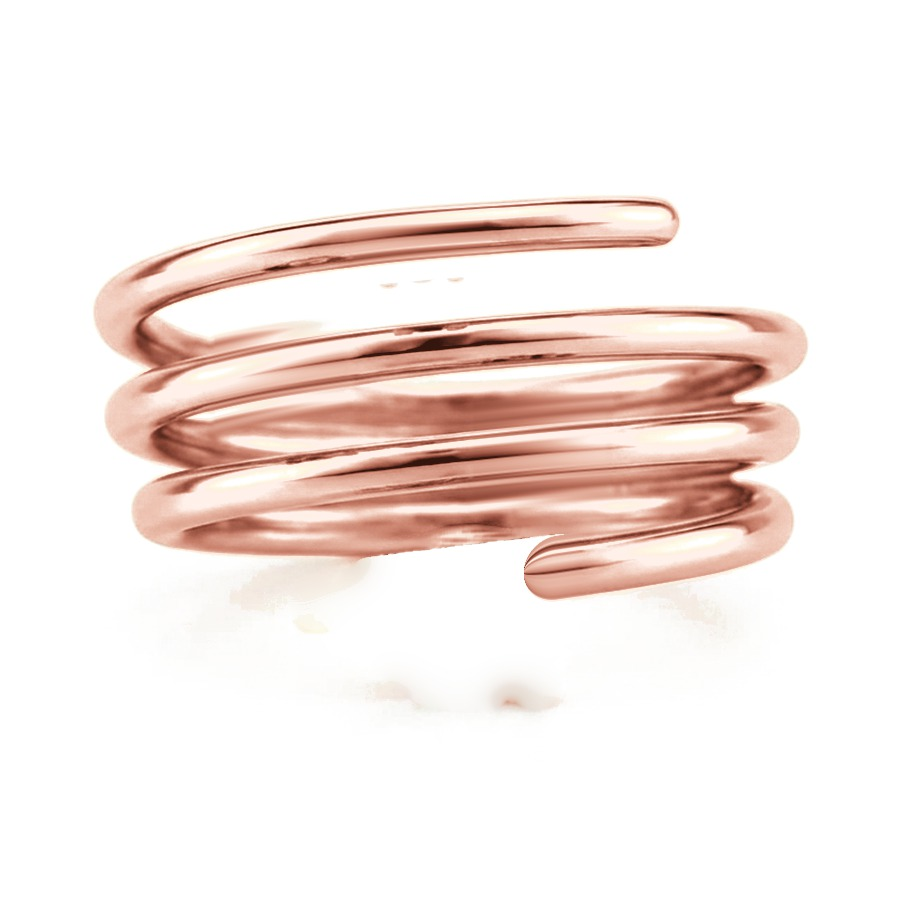
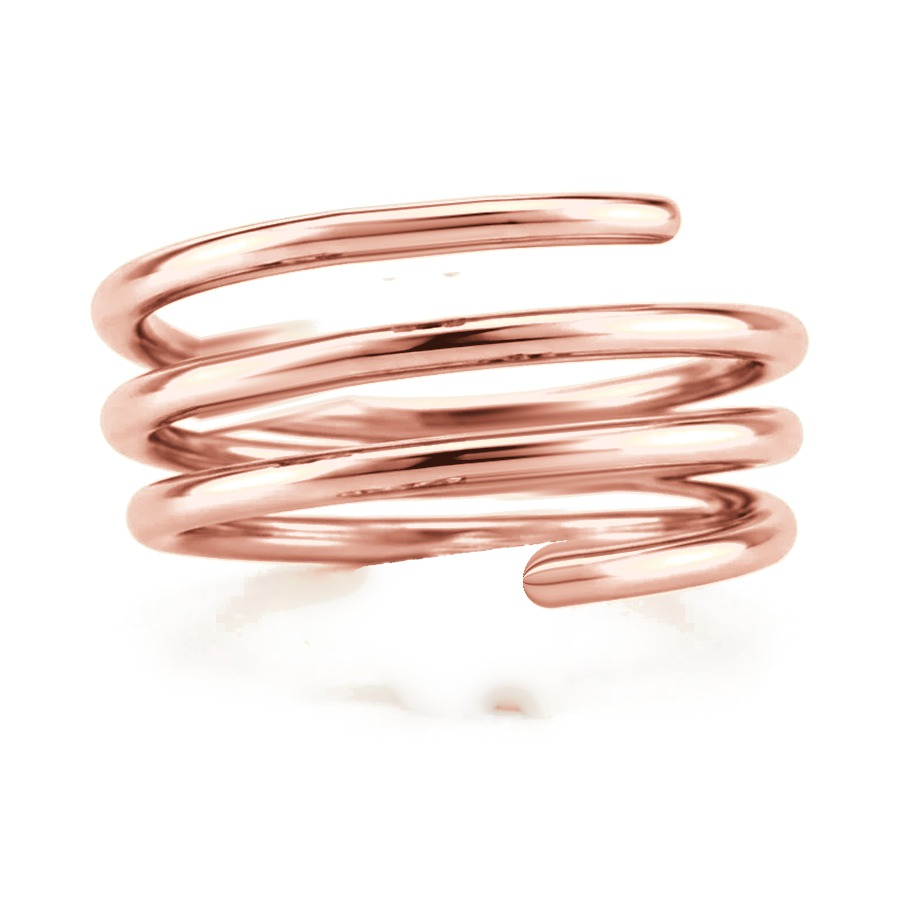
Ring photos: the five photos supplied on 20 Nov
Close wraps with a slimmer wire, one photo per wrap count, in gold, rose and
silver. The small stones and the pear are lifted off with the same simple
fill the original set used, and every placement is re-measured per photo.

diff --git a/index.html b/index.html
@@ -322,11 +322,11 @@ const MAX_WRAPS = 5;
    as that pear did); seat = [the pear's right edge, the wire's centre there]; top = the pear's top edge;
    drop = how far below the wire the pear's centre hung, as a share of its height. */
 const RINGS = {
-  1:{size:49.5, bottom:1.63, seat:[594,498], top:440, drop:0.2, stones:[[443,320,554,310]]},
-  2:{size:43.1, bottom:1.6, seat:[586,543], top:497, drop:0.23, stones:[[426,263,523,254],[285,405,382,393]]},
-  3:{size:39.5, bottom:1.56, seat:[568,566], top:529, drop:0.29, stones:[[418,230,507,220],[279,369,368,352],[539,451,450,459]]},
-  4:{size:42.5, bottom:1.59, seat:[570,649], top:585, drop:0.14, stones:[[417,256,513,251],[262,371,358,381],[536,450,440,455],[326,555,422,548]]},
-  5:{size:45.0, bottom:1.46, seat:[558,662], top:589, drop:0.09, stones:[[430,175,531,173],[262,289,363,278],[539,374,438,378],[328,479,429,468],[644,557,543,559]]},
+  1:{size:54.5, bottom:1.56, seat:[589,509], top:454, drop:0.19, stones:[[446,327,569,314]]},
+  2:{size:39.9, bottom:1.5, seat:[572,602], top:548, drop:0.2, stones:[[436,304,526,298],[278,444,368,430]]},
+  3:{size:40.5, bottom:1.56, seat:[567,574], top:535, drop:0.28, stones:[[418,226,509,218],[274,368,365,350],[541,454,450,462]]},
+  4:{size:42.8, bottom:1.52, seat:[566,619], top:554, drop:0.12, stones:[[416,219,512,212],[261,334,357,320],[537,415,441,420],[325,521,421,512]]},
+  5:{size:45.2, bottom:1.49, seat:[560,670], top:597, drop:0.1, stones:[[431,164,533,162],[262,282,364,267],[542,367,440,371],[328,475,430,464],[649,556,547,560]]},
 };
 /* In a store, the store's page hands over SHOP: its image addresses, its cart, and the price of each ring.
    On its own (no SHOP) the page shows no prices and sends a request by email. */
@@ -337,7 +337,7 @@ const PHOTO = 900, STONE_BOX = 3;      // a stone image is 3x its stone's radius
 
 const stoneSrc  = (i, metal) => asset('img/stones/' + METALS[metal].dir + '/' + STONE_BANK[i].file);
 const seatSrc   = metal => asset('img/stones/' + METALS[metal].dir + '/seat.png');
-const ringSrc   = (n, metal) => asset('img/rings/' + METALS[metal].dir + '/ring-' + n + '.jpg?v=3');   // v=3: the in-between photos (original, a touch slimmer); bump when the photos change so no one sees old photos under new placements
+const ringSrc   = (n, metal) => asset('img/rings/' + METALS[metal].dir + '/ring-' + n + '.jpg?v=4');   // v=4: the five photos supplied on 20 Nov (close wraps, slimmer wire); bump when the photos change so no one sees old photos under new placements
 const bottomSrc = (cut, size, metal) => asset('img/bottom/' + METALS[metal].dir + '/' + cut + '-' + size + '.png');
 
 /* ============================ STATE ============================

diff --git a/tools/lift_round_stones.py b/tools/lift_round_stones.py
@@ -24,7 +24,8 @@ def erase_round(a,cx,cy,r):
     xL=int(round(cx-1.8*r)); xR=int(round(cx+1.8*r))
     half=int(1.5*r)
     colL=a[:,xL-2:xL+1].mean(1); colR=a[:,xR:xR+3].mean(1)
-    # the wire's slope just left and just right of the setting (same wire, 28px apart)
+    # the wire's rise across the stone: the vertical shift that best lines up the two edge profiles
+    # the wire's slope just left and just right of the setting (same wire, 28px apart), carried across the gap
     def local_shift(x0,x1):
         A=a[:,x0-1:x0+2].mean(1); B=a[:,x1-1:x1+2].mean(1); u0=int(cy-1.0*r); u1=int(cy+1.0*r); best=None
         for dd in range(-12,13):
@@ -32,23 +33,16 @@ def erase_round(a,cx,cy,r):
             if best is None or e<best[0]: best=(e,dd)
         return best[1]/float(x1-x0)
     sl=local_shift(xL-28,xL); sr=local_shift(xR,xR+28)
-    d=(sl+sr)/2.0*(xR-xL)
-    # refine the rise across the gap by matching the two edge profiles directly, near the slope's guess
-    u0=int(cy-1.3*r); u1=int(cy+1.3*r); best=None
-    for dd in range(int(round(d))-9,int(round(d))+10):
-        e=np.abs(colL[u0:u1]-colR[u0+dd:u1+dd]).mean()+0.15*abs(dd-d)
-        if best is None or e<best[0]: best=(e,dd)
-    d=float(best[1]); cL=cy-d/2.0; cR=cy+d/2.0
-    m0=sl*(xR-xL); m1=sr*(xR-xL)
+    d=(sl+sr)/2.0*(xR-xL); cL=cy-d/2.0; cR=cy+d/2.0
     out=a.copy(); ys=np.arange(H)
     for x in range(xL,xR+1):
         t=(x-xL)/(xR-xL); ts=t*t*(3-2*t)
-        c=cL+(t**3-2*t*t+t)*m0+(-2*t**3+3*t*t)*d+(t**3-t*t)*m1     # the wire's path: leaves and arrives at the wire's own slope
+        c=cL+(cR-cL)*t
         def samp(col,c0):
             yy=np.clip(ys-(c-c0),0,H-1); lo=np.floor(yy).astype(int); hi=np.minimum(lo+1,H-1); f=(yy-lo)[:,None]
             return col[lo]*(1-f)+col[hi]*f
         new=samp(colL,cL)*(1-ts)+samp(colR,cR)*ts
-        w=(np.clip((half-np.abs(ys-c))/8.0,0,1)*min(1.0,(x-xL+1)/8.0,(xR-x+1)/8.0))[:,None]
+        w=np.clip((half-np.abs(ys-c))/8.0,0,1)[:,None]
         out[:,x]=a[:,x]*(1-w)+new*w
     return out,(xL,xR,cL,cR)
 if __name__=='__main__':

diff --git a/tools/remove_bottom_stone.py b/tools/remove_bottom_stone.py
@@ -6,8 +6,8 @@ from PIL import Image, ImageDraw
 from scipy import ndimage
 pears=json.load(open('pears.json'))
 # prong beads, marked by eye on gridded close-ups: tip, top right, bottom right (x, y, r)
-BEADS={1:[(328,534,21),(559,455,20),(561,605,21)], 2:[(325,589,21),(553,510,19),(556,650,20)], 3:[(316,604,19),(536,545,20),(535,680,20)],
-       4:[(310,668,19),(538,599,20),(540,738,21)], 5:[(321,675,20),(531,608,21),(532,741,21)]}
+BEADS={1:[(333,546,28),(555,468,21),(560,606,22)], 2:[(323,629,19),(542,562,21),(543,699,22)], 3:[(318,608,27),(538,551,21),(540,686,22)],
+       4:[(315,638,19),(537,570,21),(539,703,22)], 5:[(316,684,19),(534,616,23),(534,751,23)]}
 for n,b in BEADS.items(): pears[str(n)]['beads']=[list(map(float,x)) for x in b]
 disk=lambda q:(np.hypot(*np.mgrid[-q:q+1,-q:q+1])<=q)
 def gold_of(a):
@@ -102,7 +102,7 @@ if __name__=='__main__':
         a=np.asarray(Image.open(f'nostone-{n}.png').convert('RGB')).astype(float)
         g=ndimage.binary_closing(metal_of(a),structure=np.ones((13,1),bool)); rounds=json.load(open('rounds.json'))[str(n)]; top=rounds[0]
         col=g[:,int(top['x']+3*top['r'])]; T=[r for r in runs(col,minlen=8)][0]; T=int((T[1]-T[0]+1)*1.25)
-        T={1:60}.get(n,T); out,inf=erase(a,pears[str(n)],T); info[n]=inf   # only on the 3, 4 and 5 wrap rings does the wire run into the band above
+        T={1:58}.get(n,T); out,inf=erase(a,pears[str(n)],T); info[n]=inf   # only on the 3, 4 and 5 wrap rings does the wire run into the band above
         im=Image.fromarray(np.clip(out,0,255).astype(np.uint8)); im.save(f'bare-{n}.png')
         x0,y0,x1,y1=inf['body']; cx=(x0+x1)//2; cy=(y0+y1)//2
         sheet.paste(im.crop((cx-220,cy-180,cx+220,cy+180)),((n-1)*440,0)); print(n,inf)
